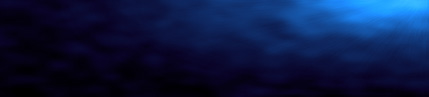
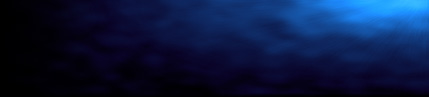
updated styles for lists, slightly updated background image, new style for nav

diff --git a/index.html b/index.html
@@ -17,48 +17,20 @@
   </div>
   <div id="content">
 
-<h2>Trivia</h2>
-<ul>
-	<li>Auf dem kleinen Zettel steht "Hier kommst du heute nicht rein."</li>
-	<li>Nachdem Delbert im Büro aufschreckt, weil er Mike erwartet und Jack fragend schaut, ist die Tür im Hintergrund geschlossen, obwohl er sie erst in der folgenden Einstellung schließt.</li>
-	<li>Auf dem Überwachungsmonitor in Delberts Büro ist eine Frau zu sehen, die sich ihre Brüste fotokopiert.</li>
-	<li>In der Bar sitzt Marla im Hintergrund.</li>
-	<li>Das Nummernschild des Diplomatenfahrzeugs ist "0 43-1", was es bedeuted kann man sich ausrechnen. </li>
-	<li>Delberts Gespräch in der Telefonzelle mussten wir 28 Mal drehen, Jacks in der Wohnung nur 2mal.</li>
-	<li>Der Türspion an der Wohnungstür ist ein Bierdeckel.</li>
-	<li>Der Türspion hat falsche Krümmung, weswegen Jack aussieht wie ein Schildnöck.</li>
-	<li>Dosen im Gewürzregal tauschen Positionen. Die Unterführung wurde beide Male aus der gleichen Richtung gefilmt.</li>
-	<li>Ja, die Brückenszene ist komplett digital, ehrlich!</li>
-	<li>Delberts Versprechen war ein echter Outtake.</li>
-	<li>Alle Dialoge in Jacks Wohnung wurden 2 verschiedenen Tagen gedreht, weil der Schauspieler von Jack absolut keine Stimme hatte.</li>
-	<li>Jack trägt beim Zubodengehen eine Armbanduhr, niemals sonst.</li>
-	<li>Taschenlampe mit der er zusammengeschlagen wird ist die selbe, die bei der ersten Begegnung mit Delbert im Hintergrund steht.</li>
-</ul>
 
-<h3>Charakternamen</h3>
-<ul>
-	<li><strong>Jack</strong> benannt nach dem Charakter Jack aus "The Shining" gespielt von Jack Nicholson.</li>
-	<li><strong>Delbert Parcher</strong> und William Grady setzen sich aus William Parcher (A Beautiful Mind) und Delbert Grady (The Shining) zusammen.</li>
-	<li><strong>Julie Merick</strong> beinhaltet einen Limerick.</li>
-	<li><strong>Pete Yäksan</strong> (gespr. Jäcksan) sollte wohl eindeutig sein.</li>
-	<li><strong>Donald Kaufman</strong> (genannter Drehbuchautor) in Anspielung auf Charlie Kaufmann in "Adaptation".</li>
-	<li><strong>Chris Challavera</strong> kam von Chris Schäfer (Akte X-Produzent) und Manny Callavera (Charakter in Grim Fandango, spanisch "Schädel")</li>
-</ul>
-
-<h3>gelernte Lektionen</h3>
-<ul>
-	<li>Skateboards sind keine Kameradollies.</li>
-	<li>Die Filmklappe hat einen Zweck, nutz sie!</li>
-	<li>50% eines Drehbuchs sind Ausschuss.</li>
-	<li>Die gleiche Kamera kann Resultate verschiedener Qualität bringen.</li>
-	<li>Namenskonventionen sind was feines, habe viele davon!
-		<ul>
-		<li>Aber, nicht mehr als eine.</li>
-		</ul>
-	</li>
-</ul>
-
-
+    <!-- Insert your content here -->
+<h2>Synopsis</h2>
+<p>
+Ein Mord, ein Freund, eine Wahrheit, nur welche?
+</p>
+<p>
+Jack ist unzufrieden mit seiner Arbeit, mit seinem Leben und zu allem Überfluss wird er Zeuge eines Mordes. Doch keiner glaubt ihm und er sieht
+sich allein an weiter Front. 
+Sein Kollege Delbert ist der einzige, der ihm glaubt. Er ist es auch, der Jack überzeugen kann, dass er hier inmitten einer Verschwörung steht. 
+Von da an überschlagen sich die Ereignisse. Jack wird verfolgt und versinkt immer tiefer im Strudel der Ereignisse. 
+Jack vertraut sich auch seiner Nachbarin Marla an. Die wiederum hält Delbert für sehr verdächtig und fängt an Nachforschungen anzustellen. Dabei
+findet sie heraus, dass auch Delbert ein dunkles Geheimnis hat. 
+</p>
   
 
     
@@ -66,7 +38,7 @@
     </div>
     <div id="footer">
       <div id="navigation">
-        <ul><li><a href="production.php" >Production</a></li><li><a href="trivia.php" >Trivia</a></li>
+        <ul><li><a href="index.php" >Trailer</a></li><li><a href="synopsis.php"  class="active" >Synopsis</a></li><li><a href="cast.php" >Cast</a></li><li><a href="press.php" >Presse</a></li><li><a href="closed-door.php" >The Closed Door</a></li>
         </ul>
       </div>
     </div>

diff --git a/stylesheets/screen.css b/stylesheets/screen.css
@@ -2,21 +2,22 @@
 /* The *:focus rule is reset and suppresses link outlining. You _must_ remember to redefine your own outline, as it’s an important accessibility aid. E.g. *:focus   outline: #ccc dotted medium */
 body { background-color: black; color: white; font-family: Verdana, Arial; font-size: 13pt; }
 
-#wrap { width: 800px; margin: 25px auto; }
+#wrap { width: 800px; margin: 0px auto; }
 #wrap #content { background-color: black; background: url("../images/bg-corner.jpg") no-repeat top right; padding: 48px; padding-top: 24px; padding-right: 128px; border: 1px solid; -moz-border-radius: 15px; -webkit-border-radius: 15px; border-color: #1b63ba; font-size: 0.81em; }
 
 p { padding: 6px 0px; }
 
 ul, ol { list-style: square; padding: 6px 12px; }
+ul li, ol li { padding: 6px 0px; }
 
 .embedded_video { margin: 0px auto; width: 600px; }
 
 a { color: #1b63ba; text-decoration: none; }
 
-h1 { display: block; width: 700px; height: 397px; background-color: transparent; background-repeat: no-repeat; background-image: url(../images/logo.jpg); overflow: hidden; }
+h1 { margin: 0px; display: block; width: 700px; height: 397px; background-color: transparent; background-repeat: no-repeat; background-image: url(../images/logo.jpg); overflow: hidden; }
 h1 span { visibility: hidden; }
 
-h2 { font-size: 13pt; margin: 10px; margin-left: 0; margin-bottom: 0px; text-align: center; }
+h2 { font-size: 13pt; margin: 10px; margin-left: 0; margin-bottom: 0px; text-align: left; }
 
 h3 { font-weight: bold; padding-top: 12px; }
 

diff --git a/src/screen.sass b/src/screen.sass
@@ -43,7 +43,7 @@ body
   
 #wrap
   :width 800px
-  :margin 25px auto
+  :margin 0px auto
   #content
     :background-color black
     :background url("../images/bg-corner.jpg") no-repeat top right
@@ -62,6 +62,8 @@ p
 ul, ol
   :list-style square
   :padding 6px 12px
+  li
+    :padding 6px 0px
     
 .embedded_video
   :margin 0px auto
@@ -71,7 +73,8 @@ a
   :color = !bcd_blue
   :text-decoration none
   
-h1 
+h1
+  :margin 0px
   /:font-size 18pt
   /:text-align left
   /:font-weight bold
@@ -83,7 +86,7 @@ h2
   :margin 10px
   :margin-left 0
   :margin-bottom 0px
-  :text-align center
+  :text-align left
 
 h3
   :font-weight bold

diff --git a/shared/_footer.php b/shared/_footer.php
@@ -1,7 +1,7 @@
 <?php
 function nav_list_entry($title, $url) {
   echo "<li>";
-      $class = ($file == $url) ? 'active' : '';
+      $class = (current_page() == $url) ? 'active' : '';
       link_to($title, $url, $class);
     echo "</li>";
 }
@@ -21,10 +21,11 @@ function render_footer() {
           
   // is behind closed doors?
   if(!is_makingof()) {    
-    nav_list_entry("Trailer", 'index.html');
+    nav_list_entry("Trailer", 'index.php');
     nav_list_entry("Synopsis", 'synopsis.php');
     nav_list_entry("Cast", 'cast.php');
     nav_list_entry("Presse", 'press.php');
+    nav_list_entry("The Closed Door", 'closed-door.php');
   } else {
     nav_list_entry("Production", 'production.php');
     nav_list_entry("Trivia", 'trivia.php');
